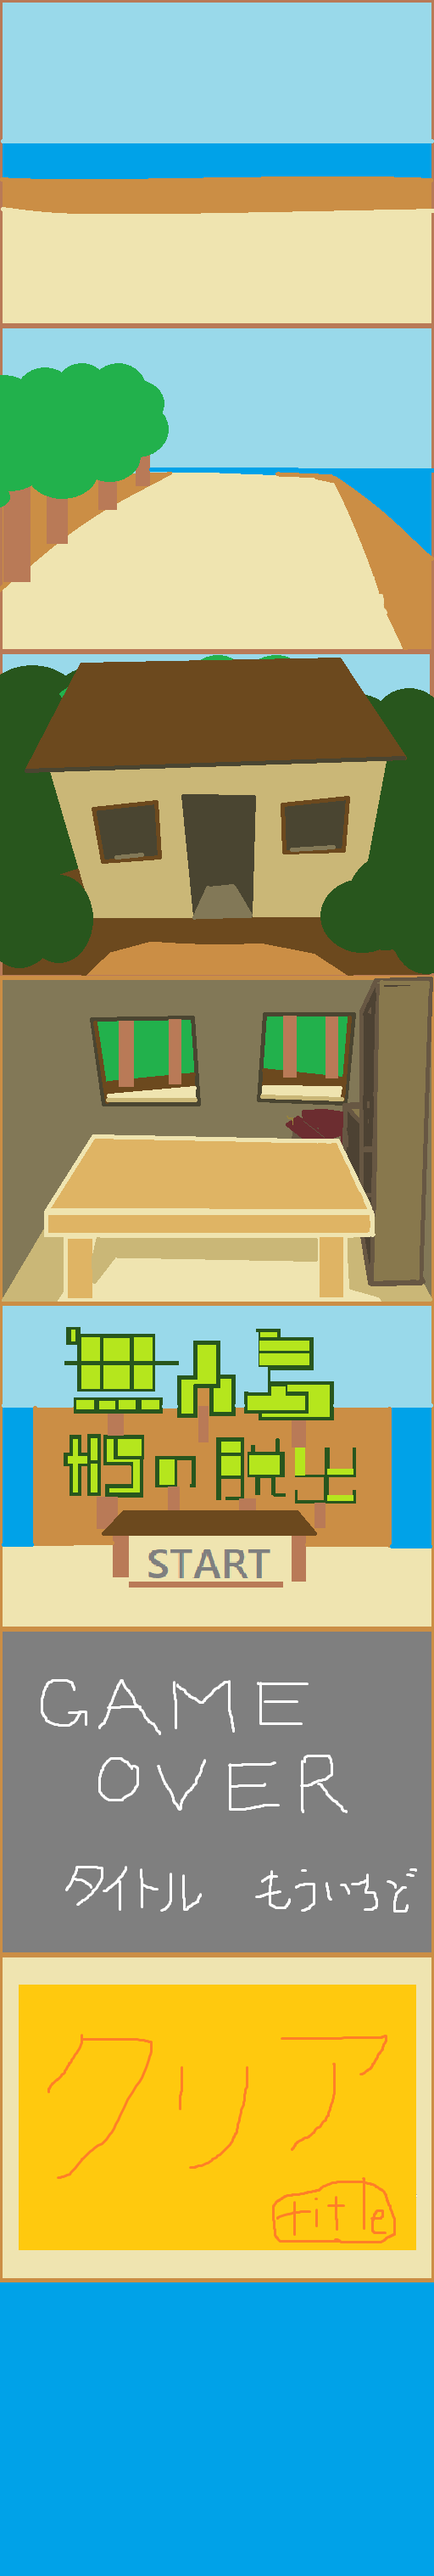
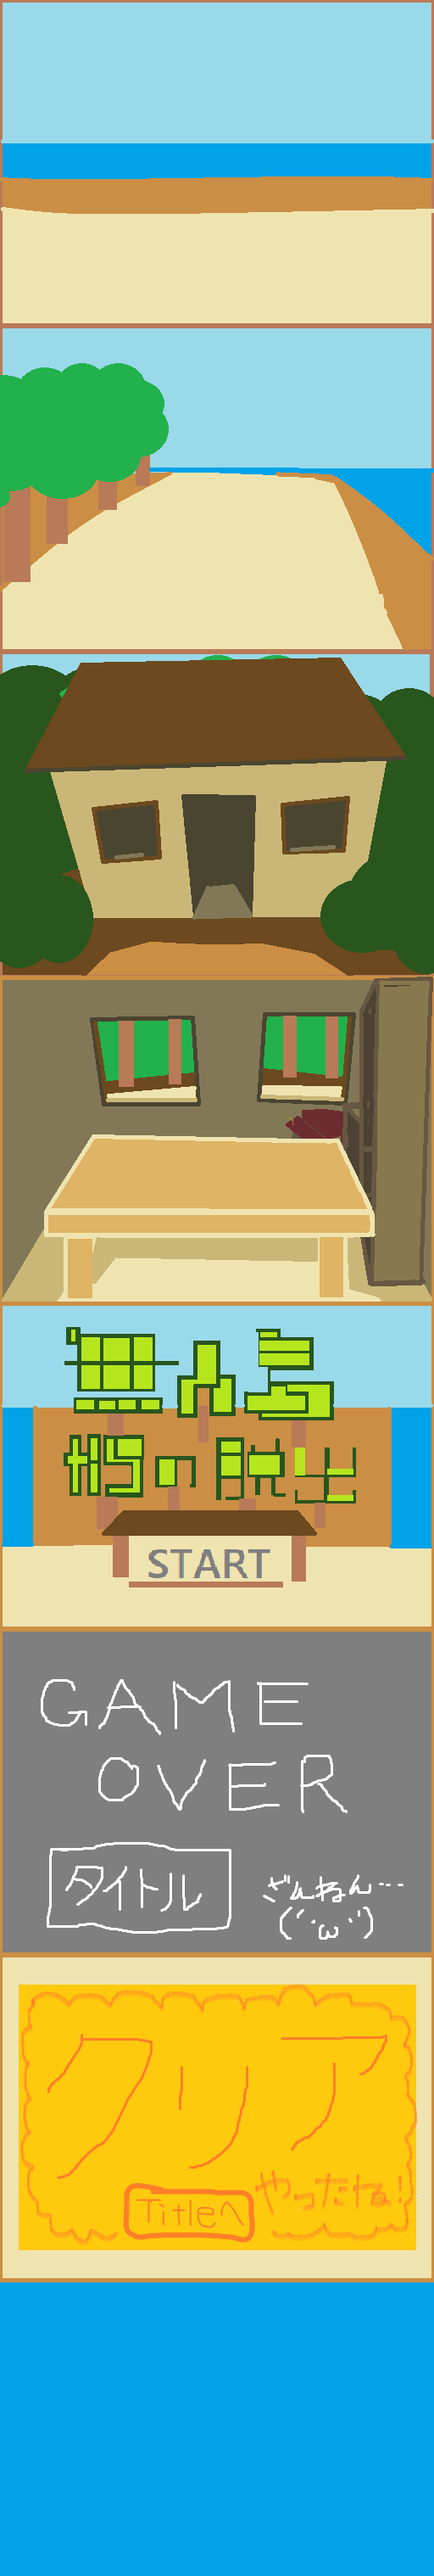
画像の編集、cssにてカーソル判定の数値変更

diff --git a/game/dashutu.css b/game/dashutu.css
@@ -1,4 +1,4 @@
-body {
+body {
     text-align: center;
     background: #D4CFB8;
 }
@@ -411,7 +411,7 @@ p.text {
     position: absolute;
     left: 106.5px;
     top: 408px;
-    width: 285px;
+    width: 300px;
     height: 97.5px;
     cursor: pointer;
     z-index: 10000;
@@ -421,10 +421,10 @@ p.text {
 /* omeに配置されてるもの */
 #ome_title {
     position: absolute;
-    left: 106.5px;
+    left: 217px;
     top: 408px;
-    width: 285px;
-    height: 97.5px;
+    width: 227px;
+    height: 77px;
     cursor: pointer;
     z-index: 10000;
 }
